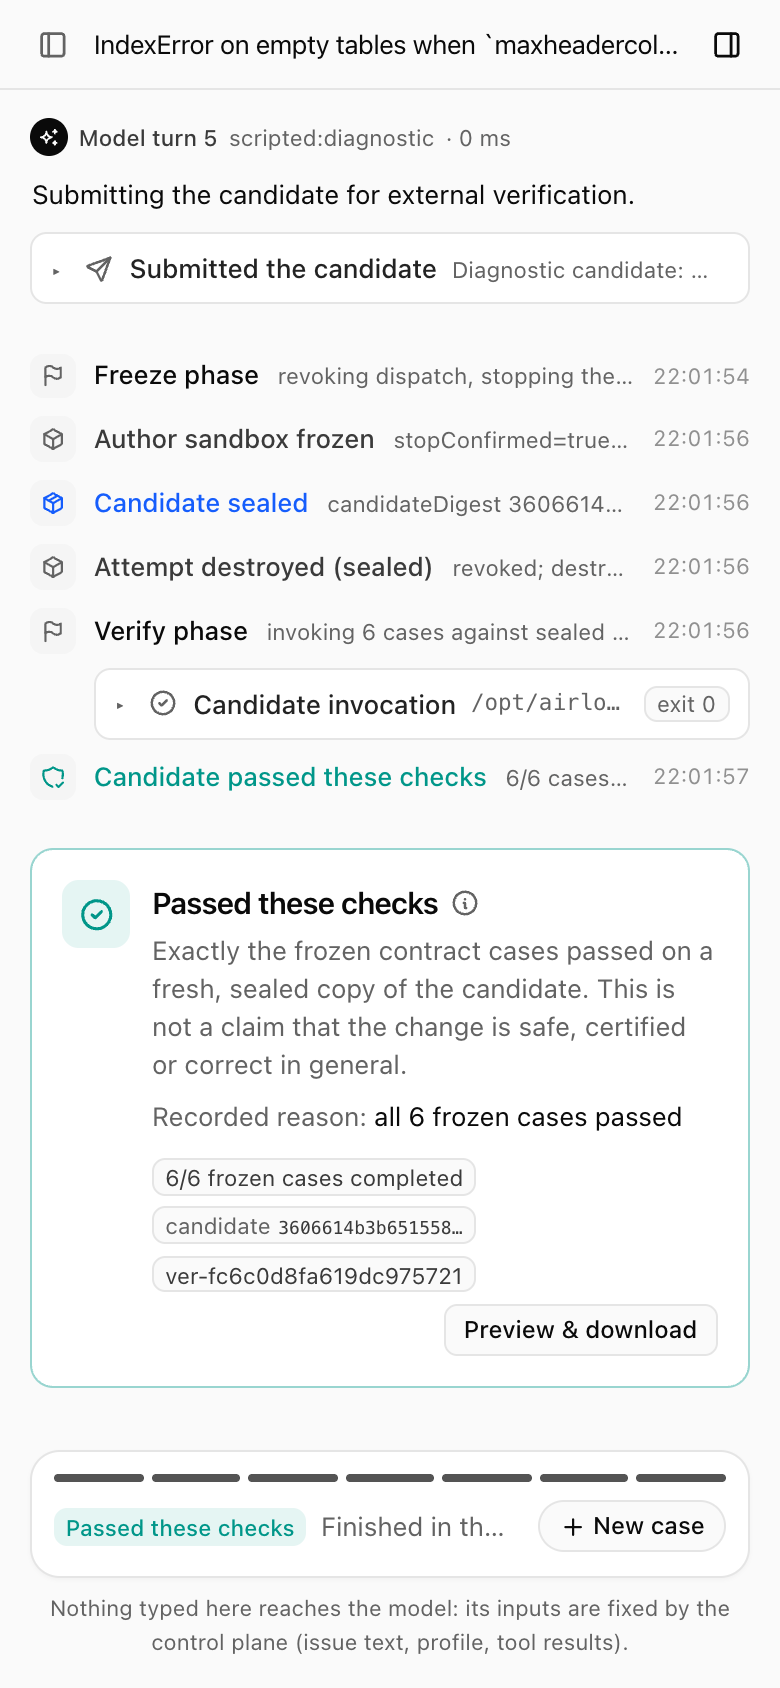
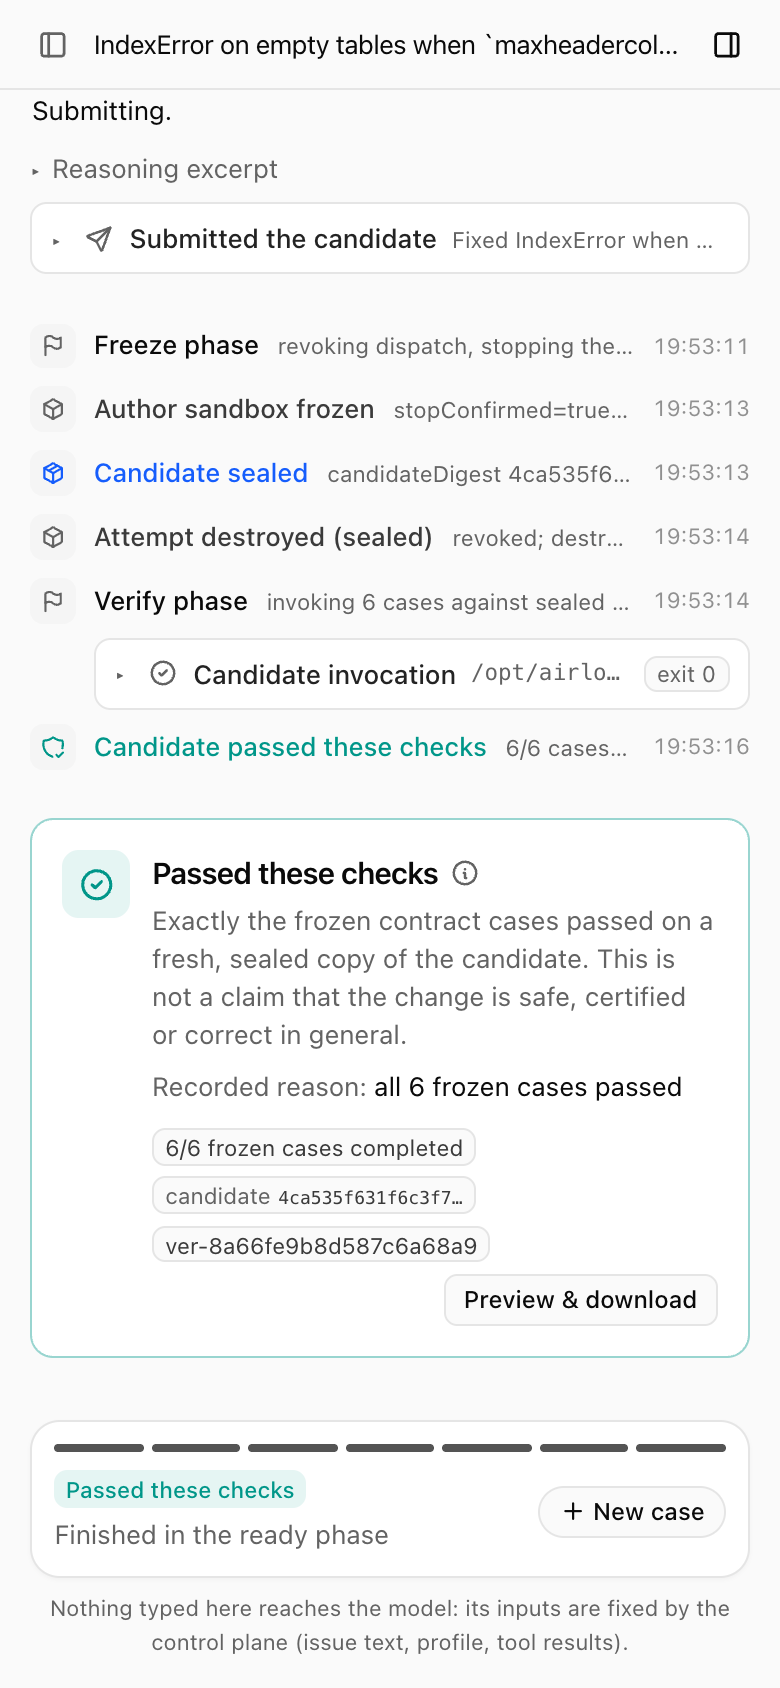
docs: hero and mobile screenshots from the real Kata deployment
The README hero showed the local stack (runc, dev-unsafe, scripted
driver). Replace it with task-944aee3d74be46ae on
https://144-202-21-168.sslip.io, one of the three glm-5.3 live-gate runs
under Kata, read as a viewer: real model turns and a tool card, the
Passed these checks result, and the details pane with the kata host
check and the five checkpoints. The sidebar search is set to the
live-gate titles so the deployment's older scripted smoke tasks are not
in the frame. ui-mobile.png is the same task on a 390px screen with the
wrapped status line. The local image is kept as ui-task-local-dev.png
and linked from apps/web/README.md.

diff --git a/README.md b/README.md
@@ -24,7 +24,9 @@
 <br />
 <br />
 
-<img src="docs/assets/ui-task.png" alt="Airlock task page: the case list, the run as a conversation with model turns and expandable tool calls, and the details pane with checkpoints and the Report Export preview" width="900" />
+<img src="docs/assets/ui-task.png" alt="Airlock task page on the Vultr deployment: a live glm-5.3 repair under Kata as a conversation with model turns, tool calls, checkpoints and the Passed these checks result, with the five checkpoints in the details pane" width="900" />
+
+<sub>A live-gate run on the deployment (glm-5.3 via Vultr Serverless Inference, sandboxes under Kata on the VX1 host), read as a viewer.</sub>
 
 </div>
 

diff --git a/apps/web/README.md b/apps/web/README.md
@@ -9,7 +9,11 @@ channel page, message scroller, detail panel, sign page, neutral oklch palette, 
 icons. The content is Airlock's. Copied and adapted files keep their MIT header and are listed in
 `THIRD_PARTY_NOTICES.md`.
 
-![Task page](../../docs/assets/ui-task.png)
+![Task page on the deployment](../../docs/assets/ui-task.png)
+
+Above: a live glm-5.3 repair on the Vultr deployment (Kata), read as a viewer. The same page on a
+local development stack (plain runc, scripted model driver) labels both everywhere:
+[ui-task-local-dev.png](../../docs/assets/ui-task-local-dev.png).
 
 ## Run
 
